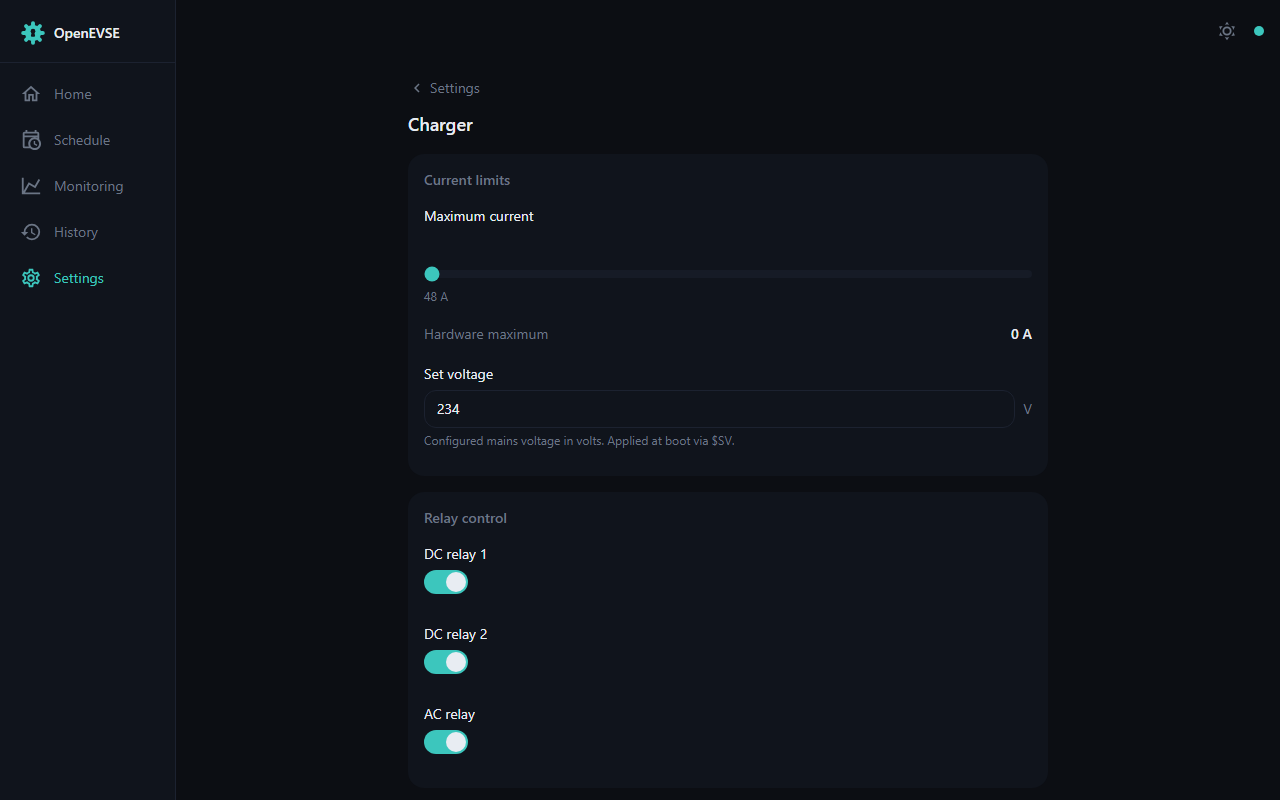
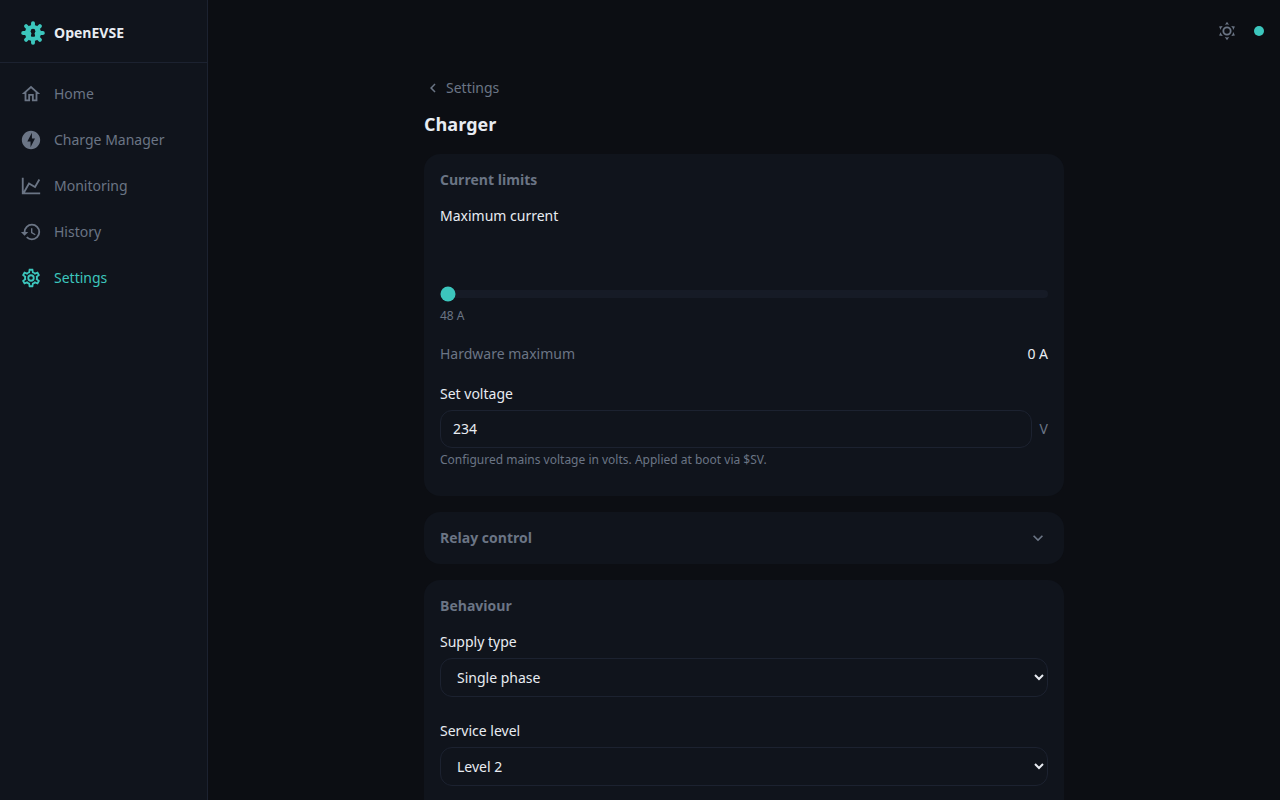
fix(charger): drop Auto from Service level options (#56)

diff --git a/src/routes/settings/Evse.svelte b/src/routes/settings/Evse.svelte
@@ -31,7 +31,6 @@
     { value: 'true', label: $_('config.evse.threephase_yes') },
   ])
   let serviceOptions = $derived([
-    { value: '0', label: $_('config.evse.service_auto') },
     { value: '1', label: $_('config.evse.service_l1') },
     { value: '2', label: $_('config.evse.service_l2') },
   ])
@@ -156,7 +155,7 @@
     <FormField label={$_('config.evse.service')} status={$ss.service ?? 'idle'}>
       <Select
         options={serviceOptions}
-        value={String($config_store?.service ?? 0)}
+        value={String($config_store?.service || 2)}
         onchange={(v) => form.saveField('service', Number(v))}
       />
     </FormField>